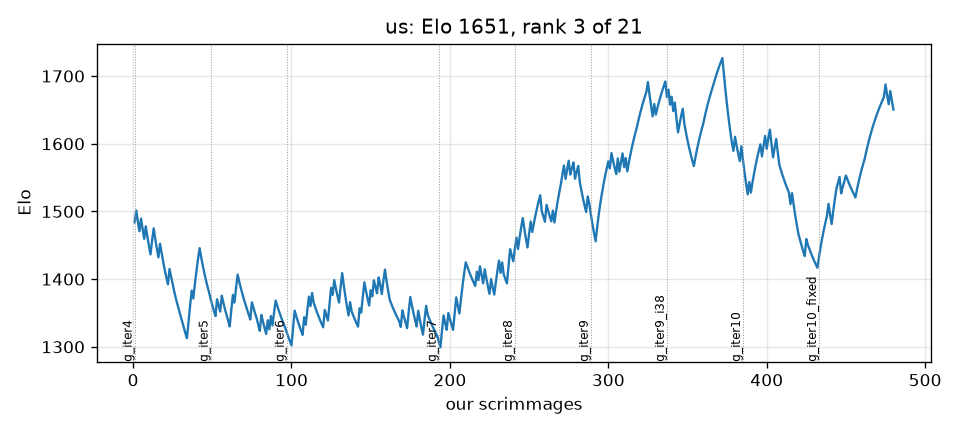
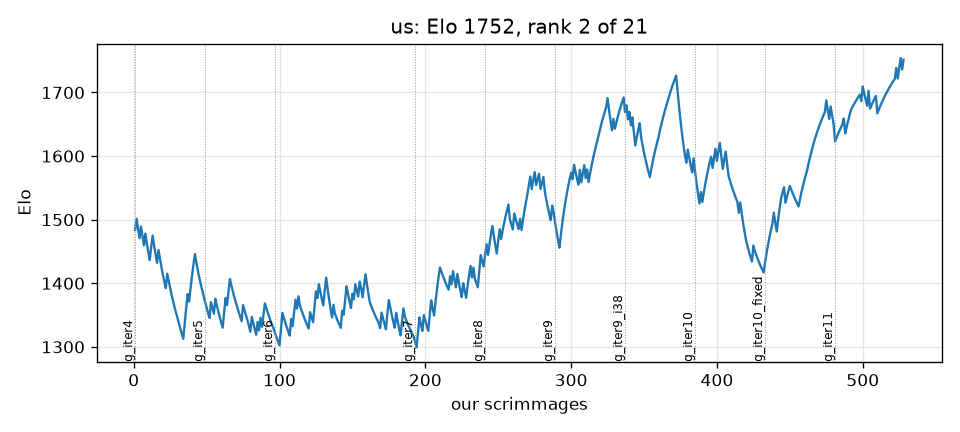
g_iter11 submitted: 38/48 (79.2%), Elo 1752, rank 2 of 21
Like-for-like against g_iter10's 35/48 on the same fixed field. Against the
four strong opponents 12/24 -> 17/24, including 2/6 against awesomelemonade
and 4/6 against rzhan11, the best records ever against both; 23/24 -> 21/24
against the four we already beat. Plus three games overall is one standard
error, but the ladder is not noise: rank 2 of 21, above rzhan11 for the
first time, only awesomelemonade ahead.

Two accepts in a row have now moved the ladder after three that did not.

Claude-Session: https://claude.ai/code/session_01VgeNHsn9ncLsLui8RaK6L7

diff --git a/BENCHMARK.md b/BENCHMARK.md
@@ -86,7 +86,7 @@ above the 20% line, so every bot we have played may be reviewed.
 | `123kevinlee.atomAlphaV14` | 123kevinlee_Battlecode2021-TeamAtom (d121441) | - | - | untested |  |
 | `123kevinlee.atomFinal` | 123kevinlee_Battlecode2021-TeamAtom (d121441) | - | - | untested |  |
 | `123kevinlee.atomFinalHS` | 123kevinlee_Battlecode2021-TeamAtom (d121441) | - | - | untested |  |
-| `123kevinlee.atomFinalQualifier` | 123kevinlee_Battlecode2021-TeamAtom (d121441) | 100 | 6 | peer(>90 once) | 0 29 29 47 17 42 33 83 100 |
+| `123kevinlee.atomFinalQualifier` | 123kevinlee_Battlecode2021-TeamAtom (d121441) | 83 | 6 | peer | 0 29 29 47 17 42 33 83 100 83 |
 | `123kevinlee.atomFinalV22` | 123kevinlee_Battlecode2021-TeamAtom (d121441) | - | - | untested |  |
 | `123kevinlee.atomStorm` | 123kevinlee_Battlecode2021-TeamAtom (d121441) | - | - | untested |  |
 | `123kevinlee.atomV11` | 123kevinlee_Battlecode2021-TeamAtom (d121441) | - | - | untested |  |
@@ -171,7 +171,7 @@ above the 20% line, so every bot we have played may be reviewed.
 | `OliverMKing.oliverrushbot2` | OliverMKing_battlecode-2021 (14e4015) | - | - | untested |  |
 | `OliverMKing.templatebot` | OliverMKing_battlecode-2021 (14e4015) | - | - | untested |  |
 | `SLaGrave.AlphaCentauri` | SLaGrave_battlecode21 (9ae0ff4) | 100 | 6 | peer(>90 once) | 100 |
-| `Scott-Poole.spright8` | Scott-Poole_battlecode21 (57f898a) | 67 | 6 | peer | 7 12 39 17 25 50 33 33 50 67 67 |
+| `Scott-Poole.spright8` | Scott-Poole_battlecode21 (57f898a) | 83 | 6 | peer | 7 12 39 17 25 50 33 33 50 67 67 83 |
 | `Sihal3.cavShieldv05` | Sihal3_cavshield (7a90425) | - | - | untested |  |
 | `Sihal3.cavShieldv1` | Sihal3_cavshield (7a90425) | - | - | untested |  |
 | `Sihal3.cavShieldv2` | Sihal3_cavshield (7a90425) | - | - | untested |  |
@@ -246,7 +246,7 @@ above the 20% line, so every bot we have played may be reviewed.
 | `angelaloh09.camelmanplayer_old` | angelaloh09_BattleCode2021-CamelMan (1a1ad19) | - | - | untested |  |
 | `anshgs.ho4` | anshgs_Fandead (00ef0fd) | 17 | 6 | locked | 7 14 17 |
 | `arya-k.quals` | arya-k_bc21 (7791795) | - | - | untested |  |
-| `arya-k.quals_v1` | arya-k_bc21 (7791795) | 83 | 6 | peer | 50 42 39 67 42 67 83 83 |
+| `arya-k.quals_v1` | arya-k_bc21 (7791795) | 100 | 6 | peer(>90 once) | 50 42 39 67 42 67 83 83 100 |
 | `arya-k.refactor` | arya-k_bc21 (7791795) | - | - | untested |  |
 | `arya-k.seeding` | arya-k_bc21 (7791795) | - | - | untested |  |
 | `arya-k.seeding_bad_econ` | arya-k_bc21 (7791795) | - | - | untested |  |
@@ -291,7 +291,7 @@ above the 20% line, so every bot we have played may be reviewed.
 | `awesomelemonade.pdefense2` | awesomelemonade_battlecode-2021 (e9c4afc) | - | - | untested |  |
 | `awesomelemonade.ppbot` | awesomelemonade_battlecode-2021 (e9c4afc) | - | - | untested |  |
 | `awesomelemonade.spreadout` | awesomelemonade_battlecode-2021 (e9c4afc) | - | - | untested |  |
-| `awesomelemonade.sprint1bot` | awesomelemonade_battlecode-2021 (e9c4afc) | 0 | 6 | locked | 0 25 0 0 0 17 33 0 0 0 |
+| `awesomelemonade.sprint1bot` | awesomelemonade_battlecode-2021 (e9c4afc) | 33 | 6 | target | 0 25 0 0 0 17 33 0 0 0 33 |
 | `awesomelemonade.trollbigps` | awesomelemonade_battlecode-2021 (e9c4afc) | - | - | untested |  |
 | `awesomelemonade.v1_10` | awesomelemonade_battlecode-2021 (e9c4afc) | - | - | untested |  |
 | `awesomelemonade.waves` | awesomelemonade_battlecode-2021 (e9c4afc) | - | - | untested |  |
@@ -320,7 +320,7 @@ above the 20% line, so every bot we have played may be reviewed.
 | `evan-schott.bugplayer` | evan-schott_battlecode2021 (1d7b865) | 100 | 6 | peer(>90 once) | 100 |
 | `evan-schott.nullplayer` | evan-schott_battlecode2021 (1d7b865) | - | - | untested |  |
 | `evan-schott.simpleplayer` | evan-schott_battlecode2021 (1d7b865) | - | - | untested |  |
-| `iliao2345.attacker` | iliao2345_Battlecode2021 (d620569) | 100 | 6 | peer(>90 once) | 21 31 37 17 42 50 83 100 |
+| `iliao2345.attacker` | iliao2345_Battlecode2021 (d620569) | 67 | 6 | peer | 21 31 37 17 42 50 83 100 67 |
 | `iliao2345.buryguard` | iliao2345_Battlecode2021 (d620569) | - | - | untested |  |
 | `iliao2345.donothing` | iliao2345_Battlecode2021 (d620569) | - | - | untested |  |
 | `iliao2345.explore_test` | iliao2345_Battlecode2021 (d620569) | - | - | untested |  |
@@ -388,7 +388,7 @@ above the 20% line, so every bot we have played may be reviewed.
 | `jmerle.camel_case_v4` | jmerle_battlecode-2021 (5f4a269) | - | - | untested |  |
 | `jmerle.camel_case_v5` | jmerle_battlecode-2021 (5f4a269) | - | - | untested |  |
 | `jmerle.camel_case_v6_sprint_1` | jmerle_battlecode-2021 (5f4a269) | - | - | untested |  |
-| `jmerle.camel_case_v7_sprint_2` | jmerle_battlecode-2021 (5f4a269) | 100 | 6 | solved | 14 38 45 17 42 17 67 50 100 100 |
+| `jmerle.camel_case_v7_sprint_2` | jmerle_battlecode-2021 (5f4a269) | 100 | 6 | solved | 14 38 45 17 42 17 67 50 100 100 100 |
 | `mama4294.Maloneplayer` | mama4294_Battlecode21 (583166a) | 100 | 6 | peer(>90 once) | 100 |
 | `max-titov.ECtest` | max-titov_2021.battlecode-KFA (168559c) | - | - | untested |  |
 | `max-titov.commsplayer` | max-titov_2021.battlecode-KFA (168559c) | - | - | untested |  |
@@ -396,7 +396,7 @@ above the 20% line, so every bot we have played may be reviewed.
 | `max-titov.navtest` | max-titov_2021.battlecode-KFA (168559c) | - | - | untested |  |
 | `max-titov.navtest2` | max-titov_2021.battlecode-KFA (168559c) | - | - | untested |  |
 | `max-titov.playertemplate` | max-titov_2021.battlecode-KFA (168559c) | - | - | untested |  |
-| `max-titov.sprintplayer` | max-titov_2021.battlecode-KFA (168559c) | 100 | 6 | peer(>90 once) | 25 33 45 67 25 67 67 100 |
+| `max-titov.sprintplayer` | max-titov_2021.battlecode-KFA (168559c) | 100 | 6 | solved | 25 33 45 67 25 67 67 100 100 |
 | `max-titov.voting_test` | max-titov_2021.battlecode-KFA (168559c) | - | - | untested |  |
 | `mhahn2003.bug` | mhahn2003_bc21 (175fd93) | - | - | untested |  |
 | `mhahn2003.coms` | mhahn2003_bc21 (175fd93) | - | - | untested |  |
@@ -518,7 +518,7 @@ above the 20% line, so every bot we have played may be reviewed.
 | `rzhan11.muckspam` | rzhan11_Battlecode2021 (f21c274) | - | - | untested |  |
 | `rzhan11.newday` | rzhan11_Battlecode2021 (f21c274) | - | - | untested |  |
 | `rzhan11.sprint` | rzhan11_Battlecode2021 (f21c274) | - | - | untested |  |
-| `rzhan11.sprint2` | rzhan11_Battlecode2021 (f21c274) | 33 | 6 | target | 0 11 0 8 33 17 33 33 0 33 |
+| `rzhan11.sprint2` | rzhan11_Battlecode2021 (f21c274) | 67 | 6 | peer | 0 11 0 8 33 17 33 33 0 33 67 |
 | `rzhan11.template` | rzhan11_Battlecode2021 (f21c274) | - | - | untested |  |
 | `rzhan11.wander_defense` | rzhan11_Battlecode2021 (f21c274) | - | - | untested |  |
 | `saivivekvenna.Ba_ba_booie` | saivivekvenna_BattleCode-2021 (636ec61) | 100 | 6 | peer(>90 once) | 100 |

diff --git a/progress/ELO.md b/progress/ELO.md
@@ -1,18 +1,18 @@
 # Elo ladder
 
-480 scrimmages (ours only); K=32 from 1500; our team is **us**: rank 3 of 21 rated bots, Elo 1651, 480 games; 45 bots not yet met.
+528 scrimmages (ours only); K=32 from 1500; our team is **us**: rank 2 of 21 rated bots, Elo 1752, 528 games; 45 bots not yet met.
 
 | rank | bot | Elo | games | W-L (theirs) |
 |---|---|---|---|---|
-| 1 | awesomelemonade.sprint1bot | 1835 | 60 | 56-4 |
-| 2 | rzhan11.sprint2 | 1742 | 60 | 50-10 |
-| 3 | **us** | 1651 | 480 | 208-272 |
+| 1 | awesomelemonade.sprint1bot | 1829 | 66 | 60-6 |
+| 2 | **us** | 1752 | 528 | 246-282 |
+| 3 | rzhan11.sprint2 | 1712 | 66 | 52-14 |
 | 4 | rqi3.qualification_bot | 1641 | 12 | 11-1 |
 | 5 | BSreenivas0713.musketeerplayerfinal | 1569 | 6 | 5-1 |
 | 6 | iyzg.sbot17 | 1561 | 6 | 5-1 |
 | 7 | VittalT.final_usqualplayer3_subm | 1552 | 6 | 4-2 |
 | 8 | StoneT2000.sprinttuna | 1531 | 6 | 3-3 |
-| 9 | Scott-Poole.spright8 | 1498 | 60 | 36-24 |
+| 9 | Scott-Poole.spright8 | 1474 | 66 | 37-29 |
 | 10 | naalit.mukrush | 1458 | 6 | 0-6 |
 | 11 | unai-gurbindo.camelmanplayer | 1451 | 6 | 0-6 |
 | 12 | raytran.dlmoreram010921 | 1448 | 6 | 0-6 |
@@ -20,10 +20,10 @@
 | 14 | qawsedrftgzh.battlecode2021 | 1435 | 6 | 0-6 |
 | 15 | ChiragKalra.gen5 | 1429 | 6 | 0-6 |
 | 16 | astelmach20.piedPiper | 1422 | 6 | 0-6 |
-| 17 | jmerle.camel_case_v7_sprint_2 | 1409 | 54 | 26-28 |
-| 18 | max-titov.sprintplayer | 1374 | 42 | 16-26 |
-| 19 | iliao2345.attacker | 1370 | 42 | 22-20 |
-| 20 | arya-k.quals_v1 | 1350 | 42 | 17-25 |
-| 21 | 123kevinlee.atomFinalQualifier | 1337 | 42 | 21-21 |
+| 17 | iliao2345.attacker | 1406 | 48 | 24-24 |
+| 18 | jmerle.camel_case_v7_sprint_2 | 1378 | 60 | 26-34 |
+| 19 | max-titov.sprintplayer | 1351 | 48 | 16-32 |
+| 20 | 123kevinlee.atomFinalQualifier | 1338 | 48 | 22-26 |
+| 21 | arya-k.quals_v1 | 1326 | 48 | 17-31 |
 
 Not yet met (1500 until their first game against us): Ahhorse1.WinstonPlayer, Aryan34.bot, Aryo-Patel.finalBot, BattlecodeTeam4.robotalpha, BoluAdubi.bot1, BryceKan3.bot.tournament.sprint, IvanGeffner.thirtyone, JCRaymond.bot.tournament.sprint, JasonYe4273.finals, Mahpare.hackatrainee_v1, OliverMKing.bot.tournament.sprint, SLaGrave.AlphaCentauri, Sihal3.cavShieldv705, TeamSerpentine.mars, Techno-coder.muckrakers, TylerQube.sandmenplayer, Victoriano012.SprintBot2, abhishekshree.bot2, aidan-mundy.final_usqualplayer3_subm, alextheimer.player, ama29.v6, angelaloh09.camelmanplayer, anshgs.ho4, davidfang00.Rushbot3, diegorod9000.Newcomer, dominicmkennedy.playerj3, edlwang.sprint2, ehiggins98.initialbot, evan-schott.bugplayer, jay20162016.ecobot, mama4294.Maloneplayer, mhahn2003.finals, mhbtz1.presprint, mvpatel2000.biden, nickel-dime.piedPiper, nsortur.piedPiper, paulmure.sprintplayer, pranayagra.finalbot11, ryanbai1412.sprint_0, saivivekvenna.Ba_ba_booie, sasank02.framework3_mr_density, thevaliantthird.bot1, winkelmantanner.tannerplayer, woodstockcs.fanandflag, wstan2001.boundfinder

diff --git a/TRAINING_LOG.md b/TRAINING_LOG.md
@@ -5208,3 +5208,39 @@ Eight of eight against each of `arch_muck`, `arch_bidder`, `arch_polrush`,
 expansion and the change is about expansion.
 
 Ladder block running on the fixed field. Baseline to beat: `g_iter10` at 35/48.
+
+## `g_iter11` submitted: 38/48 (79.2%), Elo 1752, **rank 2 of 21** (2026-09-21 19:40 UTC)
+
+Same fixed field as `g_iter10`'s 35/48, so this is like-for-like.
+
+| | record | 95% |
+|---|---|---|
+| `g_iter10` | 35/48 (72.9%) | 59-83 |
+| **`g_iter11`** | **38/48 (79.2%)** | 66-88 |
+
+| opponent | `g_iter10` | `g_iter11` |
+|---|---|---|
+| awesomelemonade.sprint1bot | 0/6 | **2/6** |
+| rzhan11.sprint2 | 2/6 | **4/6** |
+| Scott-Poole.spright8 | 4/6 | 5/6 |
+| arya-k.quals_v1 | 5/6 | 6/6 |
+| 123kevinlee.atomFinalQualifier | 6/6 | 5/6 |
+| iliao2345.attacker | 6/6 | 4/6 |
+| jmerle, max-titov | 6/6, 6/6 | 6/6, 6/6 |
+
+Against the four strong opponents: **12/24 -> 17/24**. Against the four we
+already beat: 23/24 -> 21/24. Read that with the caution earned on Iteration
+45, where the same shape turned out to be six-game noise: +3 overall is one
+standard error and the intervals overlap. What is not noise is the ladder:
+**Elo 1752, rank 2 of 21, above rzhan11 for the first time**, with 528 games
+behind our rating and only awesomelemonade ahead. 2/6 against awesomelemonade
+and 4/6 against rzhan11 are both the best records ever against those bots.
+
+**Two accepts in a row have now moved the ladder** (g_iter10 -> 3rd,
+g_iter11 -> 2nd), after a stretch where three accepts moved it not at all. Both
+were found the same way: measure our behaviour against what the opponents
+actually do, then read one logged game closely enough to find the mechanism --
+and this time, instrument what the bot *hears*, not only what it does.
+
+Consequence for the tier rules: awesomelemonade at 33% is now `target`, so its
+games may be reviewed for the first time under the rule as written.

diff --git a/HANDOFF.md b/HANDOFF.md
@@ -64,12 +64,11 @@ across years), then this file, then the tail of `TRAINING_LOG.md`.
   carries the intake instrumentation (`heardN`, `nearReads`, `orderRounds`,
   `@capbuild`, `@courier`) -- cheap Debug lines that were part of what the gate
   tested, so they ship as tested.
-- **In flight:** the archetype regression (`gauntlet/regress-i48.log`, 40 cells,
-  five archetypes). Then a 48-game ladder block on the fixed field
-  (`BOT=bot N=48 tools/scrim.sh`), recorded with `--label g_iter11`, then
-  `elo.py`, `bench-roster.py`, `scrim-study.sh`. Baseline to beat on that field:
-  `g_iter10` at **35/48**.
-- Previous: g_iter10 at Elo 1651, rank 3 of 21, 35/48 on the fixed field.
+- Regression **40/40**. Ladder **38/48 on the fixed field** (g_iter10: 35/48),
+  **Elo 1752, rank 2 of 21**, above rzhan11 for the first time; only
+  awesomelemonade (1829) ahead. Against the strong four 17/24 (was 12/24);
+  awesomelemonade 2/6 and rzhan11 4/6 are the best records ever against them.
+- awesomelemonade is now tier `target` (33%) and may be reviewed.
 
 ## The finding behind Iteration 48 (read this before any comms work)
 
